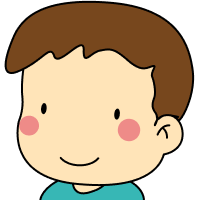
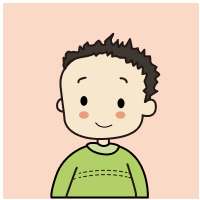
Fix: 프로필 이미지 수정

diff --git a/src/pages/Index.js b/src/pages/Index.js
@@ -1,6 +1,11 @@
 import "../css/Container.css";
 import "../css/Index.css";
 import "../css/Container.css";
+import ProfileImg1 from "../assets/ProfileImg1.png";
+import ProfileImg2 from "../assets/ProfileImg2.png";
+import ProfileImg3 from "../assets/ProfileImg3.png";
+import ProfileImg4 from "../assets/ProfileImg4.png";
+import ProfileImg5 from "../assets/ProfileImg5.png";
 import Container from "../components/Container";
 import Modal from "../components/Modal";
 import Button from "../components/Button";
@@ -23,7 +28,7 @@ export default function Index({ $target, loadPage, data }) {
       const img = document.createElement("img");
       const name = document.createElement("h3");
       const card = document.createElement("card");
-      const nameList = ["정우", "주희", "예지", "우찬", "슬기"];
+      const nameList = ["정우", "민준", "예지", "우찬", "슬기"];
 
       card.className = "card";
       img.src = src;
@@ -40,6 +45,16 @@ export default function Index({ $target, loadPage, data }) {
         );
         card.className =
           profile.name[nameList[i]] == true ? "selectedProfile" : "card";
+        src =
+          i == 0
+            ? ProfileImg1
+            : i == 1
+            ? ProfileImg2
+            : i == 2
+            ? ProfileImg3
+            : i == 3
+            ? ProfileImg4
+            : ProfileImg5;
         LocalStorage.setItem(
           "profile",
           JSON.stringify({ name: nameList[i], img: src })

diff --git a/src/App.js b/src/App.js
@@ -59,8 +59,8 @@ export default function App($target) {
     if (level === 1) {
       const data = {
         profile,
-        animal: [Peng, Koala, Bear, Deer, Elephant, Fox, Sheep, Chick],
-        problemAnswer: [2, 3, 6],
+        animal: [Peng, Koala, Deer, Elephant, Fox, Sheep, Chick, Bear],
+        problemAnswer: [2, 5, 7],
         text: "한 글자",
         message: "인 동물을 모두 선택해주세요.",
       };

diff --git a/src/components/Container.js b/src/components/Container.js
@@ -9,7 +9,7 @@ export default class Container {
     document.querySelector(".app").appendChild(this.section);
   }
   render() {
-    const container = document.createElement("p");
+    const container = document.createElement("div");
     container.className = "container2";
 
     const profileImage = document.createElement("img");

diff --git a/src/css/FirstLevel.css b/src/css/FirstLevel.css
@@ -5,12 +5,8 @@
   margin: 1rem;
 }
 
-img {
-  width: 100%;
-}
-
 .imgTag {
-  height: 7rem;
+  height: 90%;
 }
 
 img:hover {
@@ -19,8 +15,8 @@ img:hover {
 }
 
 .imgContainer {
-  width: 7.5rem;
-  height: 10rem;
+  width: 8rem;
+  height: 8rem;
   margin: 0.3rem;
   display: flex;
   flex-direction: column-reverse;

diff --git a/src/css/Container.css b/src/css/Container.css
@@ -1,5 +1,5 @@
 .container2 {
-  width: 100%;
+  width: 100rem;
   display: flex;
   justify-content: center;
   align-items: center;
@@ -7,9 +7,7 @@
 
 .profileImage {
   width: 7rem;
-  border-radius: 100%;
   margin-right: 2rem;
-  box-shadow: 5px 5px 7px 1px grey;
 }
 
 .profileImage:hover {

diff --git a/src/css/Modal.css b/src/css/Modal.css
@@ -24,6 +24,7 @@
 
 .modalImg {
   width: 25%;
+  height: 40%;
   border-radius: 1rem;
 }
 
